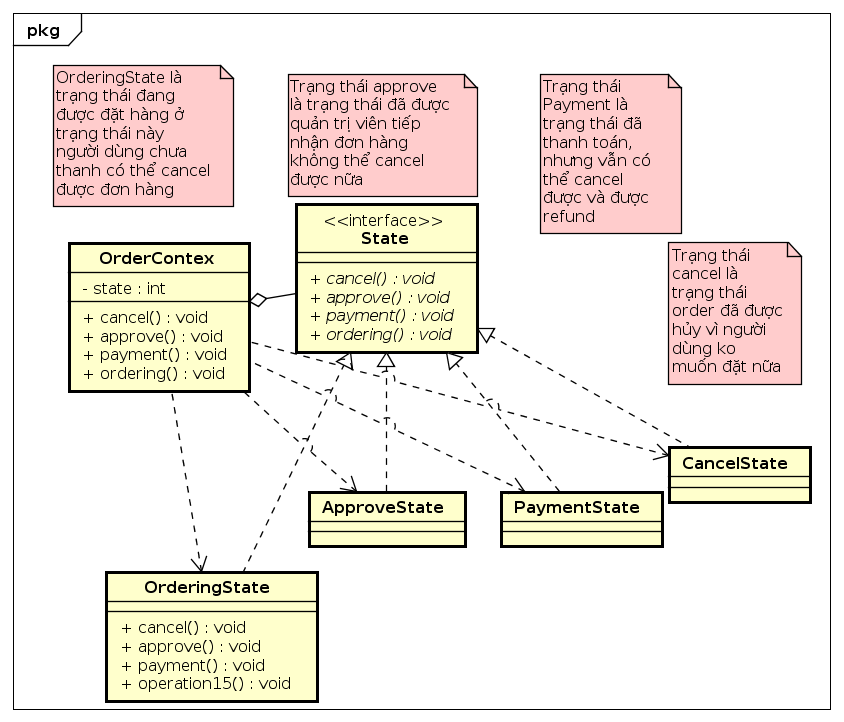
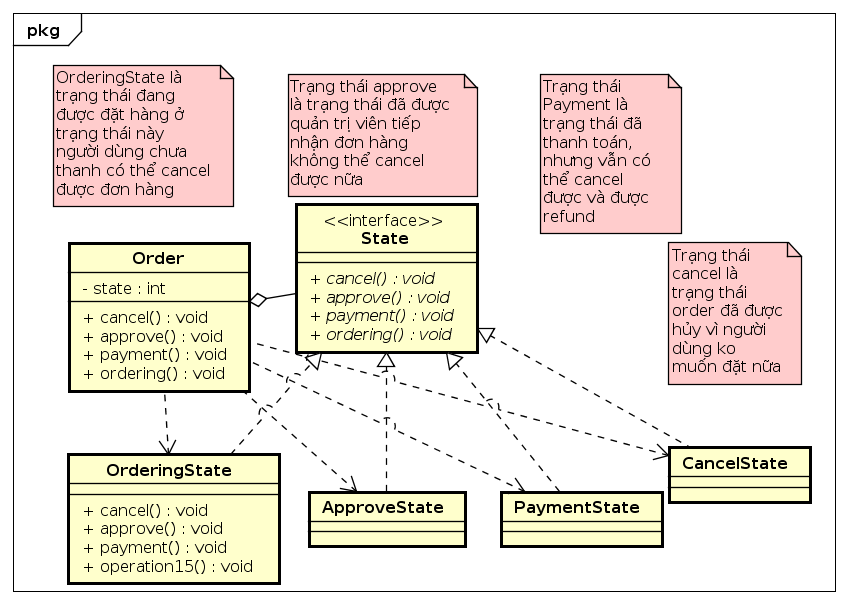
state DP implements

diff --git a/src/main/java/entity/order/Order.java b/src/main/java/entity/order/Order.java
@@ -4,11 +4,15 @@ import controller.SessionInformation;
 import entity.cart.Cart;
 import entity.cart.CartItem;
 import entity.shipping.DeliveryInfo;
+import entity.state.CancelState;
+import entity.state.OrderingState;
 import views.screen.ViewsConfig;
 
 import java.util.ArrayList;
 import java.util.Collections;
 import java.util.List;
+
+import common.interfaces.State;
 
 
 public class Order {
@@ -17,12 +21,27 @@ public class Order {
     private int subtotal;
     private int tax;
     private List orderMediaList;
-    protected DeliveryInfo deliveryInfo;
+    private State state;
+    
+    public State getState() {
+		return state;
+	}
+
+	public void changeState(State state) {
+		this.state = state;
+	}
+
+	protected DeliveryInfo deliveryInfo;
 
     public Order() {
         this.shippingFees = 0;
         this.subtotal = 0;
         this.tax = 0;
+        this.state = new OrderingState();
+    }
+    
+    public void cancelOrder() {
+    	this.changeState(new CancelState());
     }
 
     public Order(Cart cart) {

diff --git a/src/main/java/entity/state/OrderingState.java b/src/main/java/entity/state/OrderingState.java
@@ -1,0 +1,31 @@
+package entity.state;
+
+import common.interfaces.State;
+
+public class OrderingState implements State{
+
+	@Override
+	public void cancel() {
+		// TODO Auto-generated method stub
+		
+	}
+
+	@Override
+	public void approve() {
+		// TODO Auto-generated method stub
+		
+	}
+
+	@Override
+	public void payment() {
+		// TODO Auto-generated method stub
+		
+	}
+
+	@Override
+	public void ordering() {
+		// TODO Auto-generated method stub
+		
+	}
+
+}

diff --git a/src/main/java/entity/state/CancelState.java b/src/main/java/entity/state/CancelState.java
@@ -1,0 +1,31 @@
+package entity.state;
+
+import common.interfaces.State;
+
+public class CancelState implements State{
+
+	@Override
+	public void cancel() {
+		// TODO Auto-generated method stub
+		
+	}
+
+	@Override
+	public void approve() {
+		// TODO Auto-generated method stub
+		
+	}
+
+	@Override
+	public void payment() {
+		// TODO Auto-generated method stub
+		
+	}
+
+	@Override
+	public void ordering() {
+		// TODO Auto-generated method stub
+		
+	}
+
+}

diff --git a/src/main/java/common/interfaces/State.java b/src/main/java/common/interfaces/State.java
@@ -1,0 +1,8 @@
+package common.interfaces;
+
+public interface State {
+	void cancel();
+	void approve();
+	void payment();
+	void ordering();
+}
